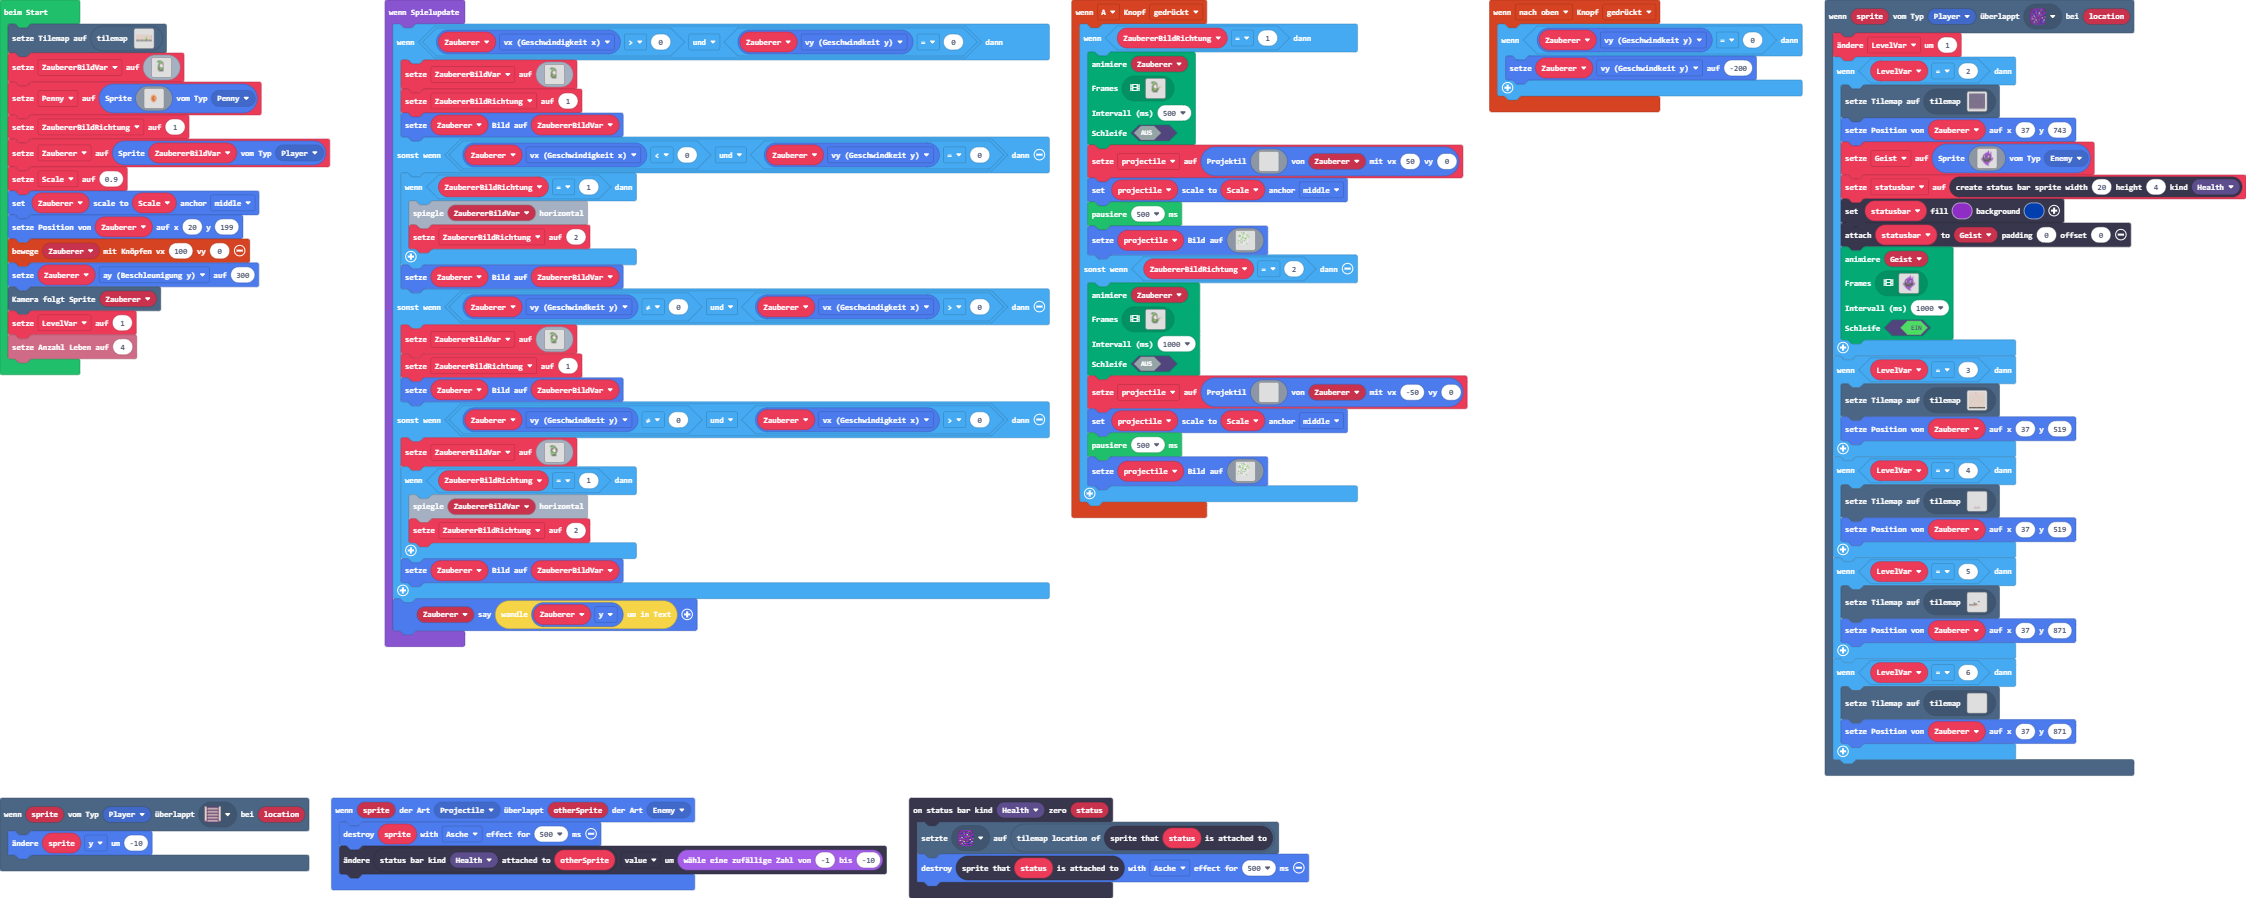
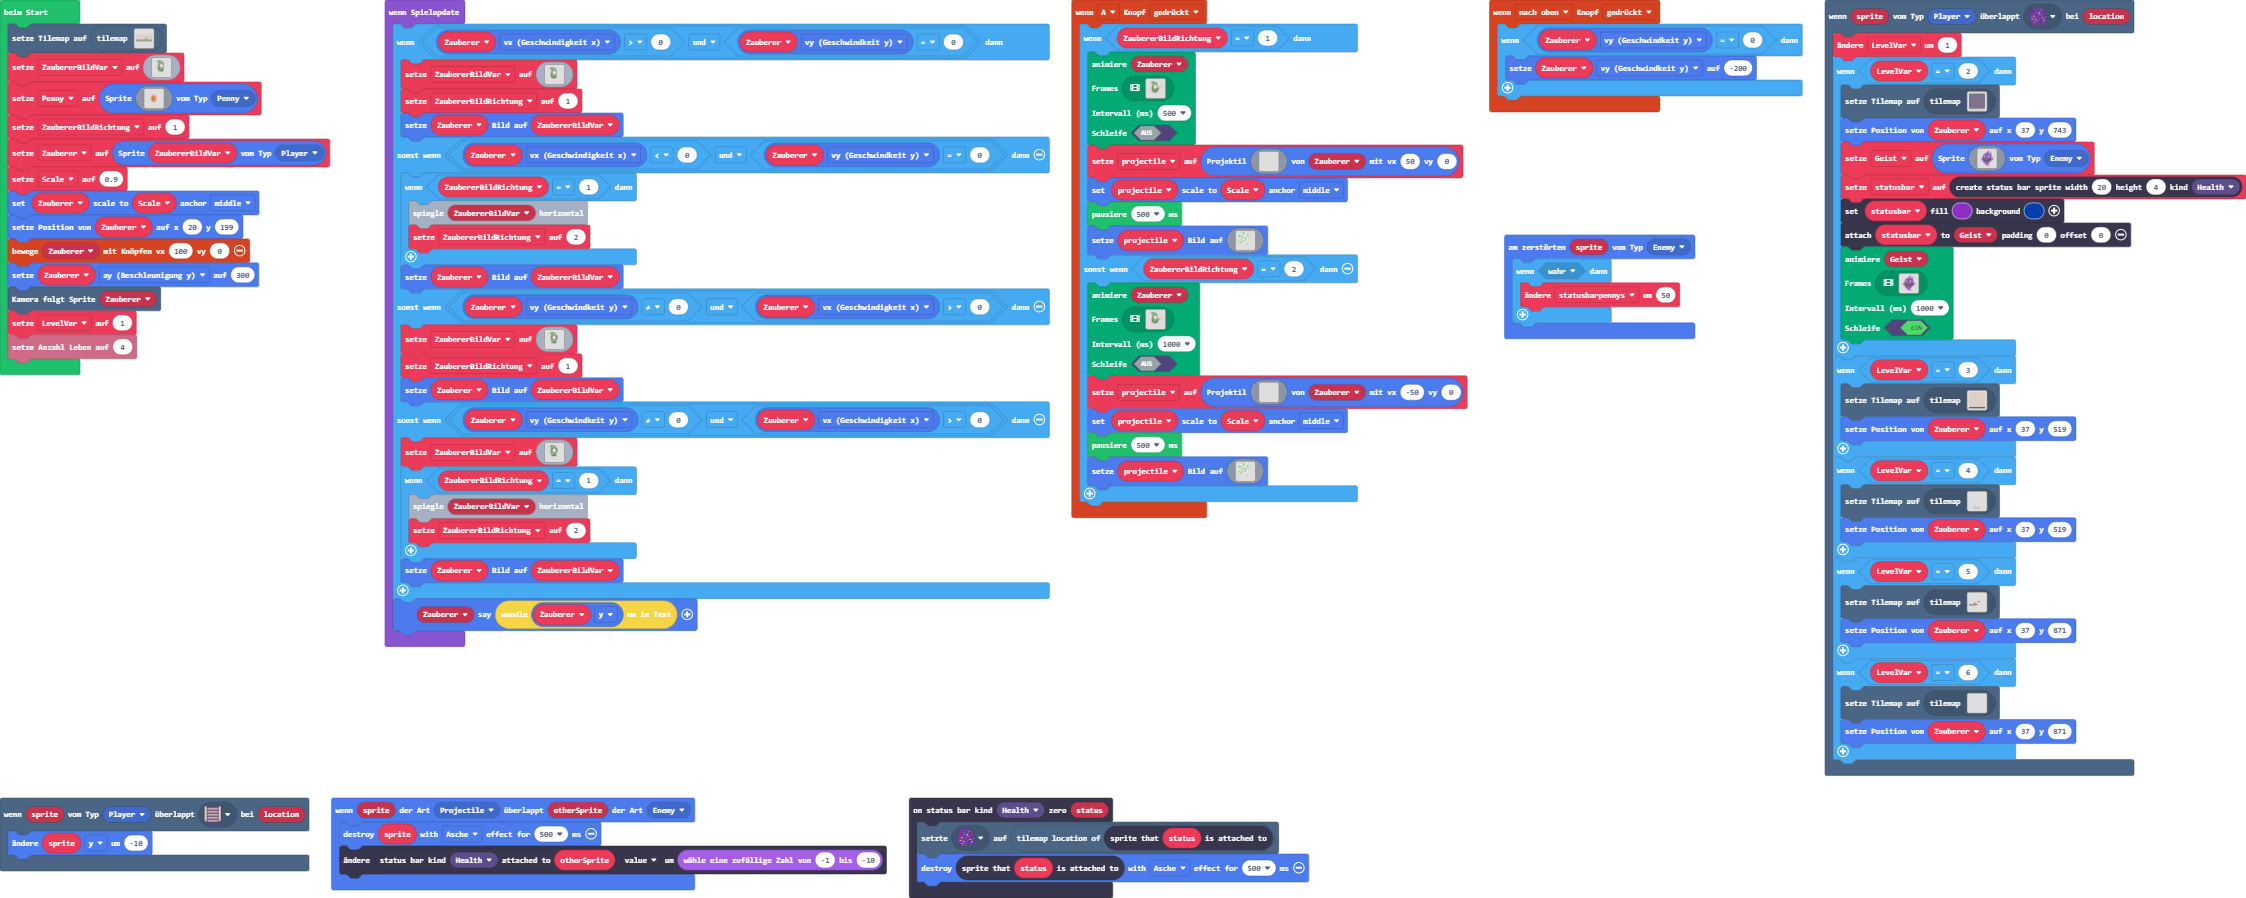
Aktualisiere pxt.json, main.blocks, main.ts, tilemap.g.jres, tilemap.g.ts

Changed region(s): [[0.6545, 0.2494, 0.7792, 0.4053]]

diff --git a/tilemap.g.ts b/tilemap.g.ts
@@ -13,17 +13,25 @@ namespace myTiles {
     //% fixedInstance jres blockIdentity=images._tile
     export const tile10 = image.ofBuffer(hex``);
     //% fixedInstance jres blockIdentity=images._tile
+    export const tile12 = image.ofBuffer(hex``);
+    //% fixedInstance jres blockIdentity=images._tile
+    export const tile13 = image.ofBuffer(hex``);
+    //% fixedInstance jres blockIdentity=images._tile
+    export const tile6 = image.ofBuffer(hex``);
+    //% fixedInstance jres blockIdentity=images._tile
+    export const tile15 = image.ofBuffer(hex``);
+    //% fixedInstance jres blockIdentity=images._tile
     export const tile7 = image.ofBuffer(hex``);
     //% fixedInstance jres blockIdentity=images._tile
     export const tile8 = image.ofBuffer(hex``);
     //% fixedInstance jres blockIdentity=images._tile
     export const tile9 = image.ofBuffer(hex``);
     //% fixedInstance jres blockIdentity=images._tile
-    export const tile12 = image.ofBuffer(hex``);
+    export const tile5 = image.ofBuffer(hex``);
     //% fixedInstance jres blockIdentity=images._tile
-    export const tile13 = image.ofBuffer(hex``);
+    export const tile11 = image.ofBuffer(hex``);
     //% fixedInstance jres blockIdentity=images._tile
-    export const tile6 = image.ofBuffer(hex``);
+    export const tile16 = image.ofBuffer(hex``);
 
     helpers._registerFactory("tilemap", function(name: string) {
         switch(helpers.stringTrim(name)) {
@@ -285,8 +293,27 @@ namespace myTiles {
 . . . . . . . . . . . . . . . . 
 . . . . . . . . . . . . . . . . 
 `, [myTiles.transparency16], TileScale.Sixteen);
+            case "Level6":
+            case "Level6":return tiles.createTilemap(hex`1000100000000000000000000000000000000000000000000000000000000000000000000000000000000000000000000000000000000000000000000000000000000000000000000000000000000000000000000000000000000000000000000000000000000000000000000000000000000000000000000000000000000000000000000000000000000000000000000000000000000000000000000000000000000000000000000000000000000000000000000000000000000000000000000000000000000000000000000000000000000000000000000000000000000000000000000000000000000000000000000000000000000000000000000000000000000000`, img`
+. . . . . . . . . . . . . . . . 
+. . . . . . . . . . . . . . . . 
+. . . . . . . . . . . . . . . . 
+. . . . . . . . . . . . . . . . 
+. . . . . . . . . . . . . . . . 
+. . . . . . . . . . . . . . . . 
+. . . . . . . . . . . . . . . . 
+. . . . . . . . . . . . . . . . 
+. . . . . . . . . . . . . . . . 
+. . . . . . . . . . . . . . . . 
+. . . . . . . . . . . . . . . . 
+. . . . . . . . . . . . . . . . 
+. . . . . . . . . . . . . . . . 
+. . . . . . . . . . . . . . . . 
+. . . . . . . . . . . . . . . . 
+. . . . . . . . . . . . . . . . 
+`, [myTiles.transparency16], TileScale.Sixteen);
             case "Level1Tilemap":
[2 lines of base64/hex data omitted]
 ....................................
 ....................................
 ....................................
@@ -303,7 +330,26 @@ namespace myTiles {
 222222222222222222222222222222222222
 ....................................
 ....................................
-`, [myTiles.transparency16,sprites.castle.tilePath5,sprites.builtin.forestTiles10,sprites.castle.tilePath8,sprites.castle.tilePath2,myTiles.tile1,myTiles.tile2,myTiles.tile6,myTiles.tile7,myTiles.tile8,myTiles.tile9,myTiles.tile12,myTiles.tile13], TileScale.Sixteen);
+`, [myTiles.transparency16,sprites.castle.tilePath5,sprites.builtin.forestTiles10,sprites.castle.tilePath8,sprites.castle.tilePath2,myTiles.tile1,myTiles.tile2,myTiles.tile6,myTiles.tile7,myTiles.tile8,myTiles.tile9,myTiles.tile12,myTiles.tile13,myTiles.tile5,myTiles.tile11,myTiles.tile16], TileScale.Sixteen);
+            case "Level7":
+            case "Level7":return tiles.createTilemap(hex`1000100000000000000000000000000000000000000000000000000000000000000000000000000000000000000000000000000000000000000000000000000000000000000000000000000000000000000000000000000000000000000000000000000000000000000000000000000000000000000000000000000000000000000000000000000000000000000000000000000000000000000000000000000000000000000000000000000000000000000000000000000000000000000000000000000000000000000000000000000000000000000000000000000000000000000000000000000000000000000000000000000000000000000000000000000000000000`, img`
+. . . . . . . . . . . . . . . . 
+. . . . . . . . . . . . . . . . 
+. . . . . . . . . . . . . . . . 
+. . . . . . . . . . . . . . . . 
+. . . . . . . . . . . . . . . . 
+. . . . . . . . . . . . . . . . 
+. . . . . . . . . . . . . . . . 
+. . . . . . . . . . . . . . . . 
+. . . . . . . . . . . . . . . . 
+. . . . . . . . . . . . . . . . 
+. . . . . . . . . . . . . . . . 
+. . . . . . . . . . . . . . . . 
+. . . . . . . . . . . . . . . . 
+. . . . . . . . . . . . . . . . 
+. . . . . . . . . . . . . . . . 
+. . . . . . . . . . . . . . . . 
+`, [myTiles.transparency16], TileScale.Sixteen);
         }
         return null;
     })
@@ -321,18 +367,26 @@ namespace myTiles {
             case "tile3":return tile3;
             case "myTile5":
             case "tile10":return tile10;
-            case "Blume2":
-            case "tile7":return tile7;
-            case "Blume3":
-            case "tile8":return tile8;
-            case "Blume4":
-            case "tile9":return tile9;
             case "Stamm":
             case "tile12":return tile12;
             case "Blätter":
             case "tile13":return tile13;
             case "Blume1":
             case "tile6":return tile6;
+            case "myTile1":
+            case "tile15":return tile15;
+            case "Blume2":
+            case "tile7":return tile7;
+            case "Blume3":
+            case "tile8":return tile8;
+            case "Blume4":
+            case "tile9":return tile9;
+            case "Blätter0":
+            case "tile5":return tile5;
+            case "Blätter1":
+            case "tile11":return tile11;
+            case "myTile2":
+            case "tile16":return tile16;
         }
         return null;
     })

diff --git a/main.ts b/main.ts
@@ -71,10 +71,16 @@ statusbars.onZero(StatusBarKind.Health, function (status) {
     tiles.setTileAt(status.spriteAttachedTo().tilemapLocation(), assets.tile`PortalTile`)
     sprites.destroy(status.spriteAttachedTo(), effects.ashes, 500)
 })
+sprites.onDestroyed(SpriteKind.Enemy, function (sprite) {
+    if (true) {
+        statusbarpennys += 50
+    }
+})
 sprites.onOverlap(SpriteKind.Projectile, SpriteKind.Enemy, function (sprite, otherSprite) {
     sprites.destroy(sprite, effects.ashes, 500)
     statusbars.getStatusBarAttachedTo(StatusBarKind.Health, otherSprite).value += randint(-1, -10)
 })
+let statusbarpennys = 0
 let statusbar: StatusBarSprite = null
 let Geist: Sprite = null
 let projectile: Sprite = null
